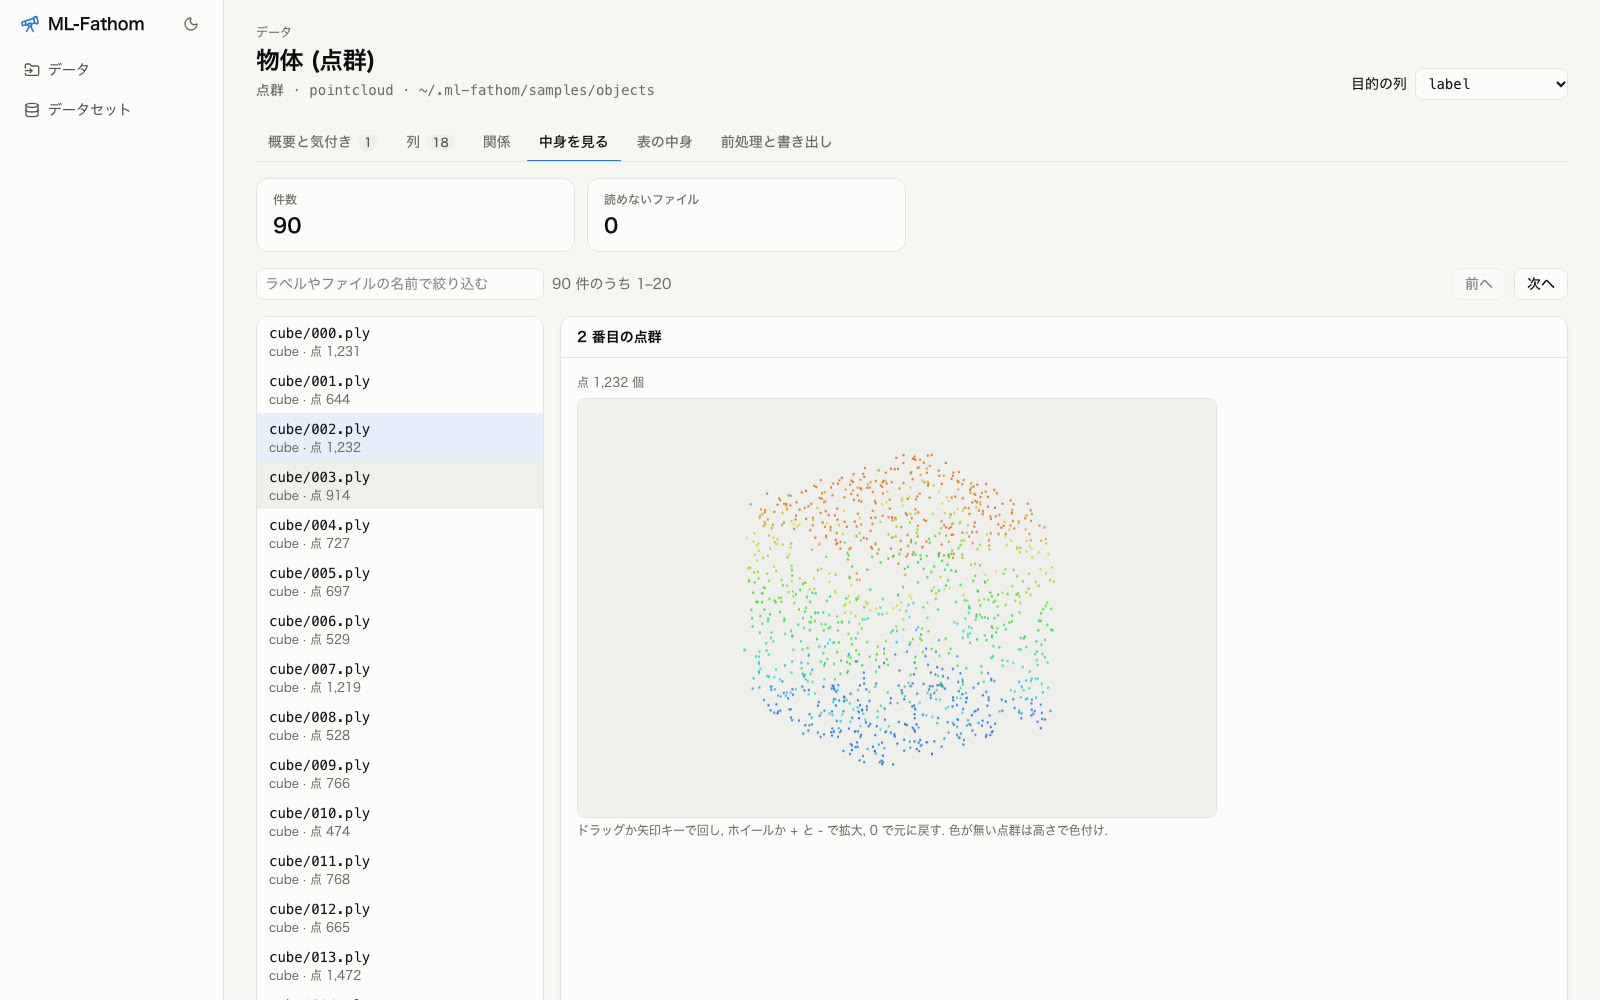
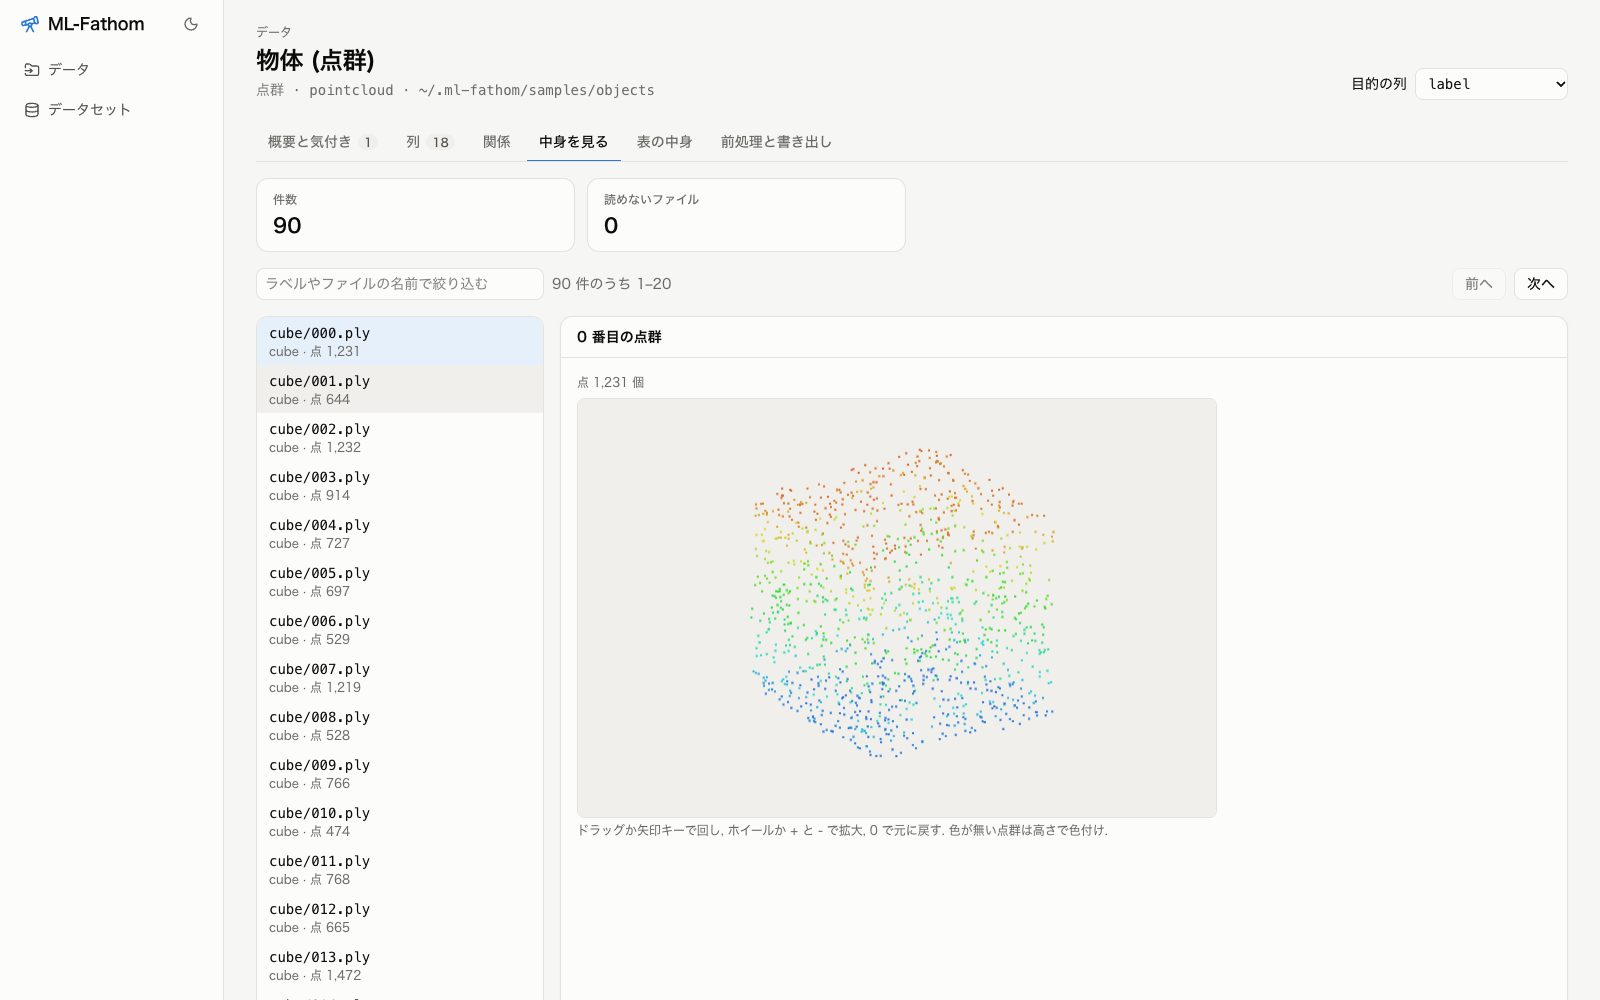
README を画面の図で分かる形にし, 操作ガイドの図を撮り直して文書を今の状態に合わせる

Changed region(s): [[0.4688, 0.434, 0.6562, 0.775], [0.1562, 0.403, 0.2188, 0.465], [0.1562, 0.31, 0.2188, 0.372]]

diff --git a/README.md b/README.md
@@ -2,41 +2,49 @@
 
 機械学習に使うデータを, 画面の上で分析 (EDA) し, 前処理して学習用に書き出すローカルの Web アプリ.
 
-[ML-EDA](https://github.com/victor-von-pooh/ML-EDA) を使い, 表, 時系列, 画像, 文, 点群, 多視点の撮影などのデータを読み込んで, 列の型, 分布, 欠損, 関係, 学習の前に確かめた方がよいこと (気付き) を見られる. 前処理の手順を画面で組み立て, 1 段ずつ前と後を確かめて, [ML-Found](https://github.com/victor-von-pooh/ML-Found) の学習スクリプトがそのまま読み込めるデータセットに書き出す.
+「機械学習を全て GUI 上で行う」流れのうち, データの分析の段階を受け持つ. 読み込み, 分析, 前処理, 書き出しは [ML-EDA](https://github.com/victor-von-pooh/ML-EDA) が行い, 書き出したデータセットは [ML-Found](https://github.com/victor-von-pooh/ML-Found) の学習スクリプトがそのまま読める.
 
-設計の方針は [docs/DESIGN.md](docs/DESIGN.md) を参照.
+![概要と気付き: 行と列の数, 欠損, ID らしい列やリークの疑いなど, 学習の前に確かめた方がよいことの一覧](docs/images/overview.png)
 
-## 必要なもの
+<table>
+  <tr>
+    <td><img src="docs/images/recipe.png" alt="前処理と書き出し: 目的の列と分割, 手順の並び, 手順をかけた後の表と分割ごとの行数"></td>
+    <td><img src="docs/images/relations.png" alt="関係: 目的の列の分布, 目的の列との関連の強さ, 数値の列の相関のヒートマップ"></td>
+  </tr>
+  <tr>
+    <td><img src="docs/images/timeseries.png" alt="時系列: 時刻の間隔と抜け, 系列のグラフ, 自己相関と周期の候補"></td>
+    <td><img src="docs/images/images.png" alt="画像の中身: 件数, 大きさと色の形式のばらつき, 読めないファイルの数と画像の一覧"></td>
+  </tr>
+  <tr>
+    <td><img src="docs/images/pointcloud.png" alt="点群の中身: 1 件ずつの点群を 3D で回して見る"></td>
+    <td><img src="docs/images/pairs.png" alt="ファイルの組の書き出し: 画像と領域の 2 つのディレクトリを選び, load_items で読める形に書き出す"></td>
+  </tr>
+</table>
 
-- [uv](https://docs.astral.sh/uv/) (Python は uv が用意する. 3.10 以上)
-- Node.js 24 以上と [pnpm](https://pnpm.io/) 11 以上 (`corepack enable` で `package.json` の版が入る)
+画面の例は「見本のデータを入れる」で登録する見本 (顧客の解約の表, 電力の使用量の時系列, 図形の画像, 物体の点群). ファイルの組の書き出しは, ML-EDA の合成の見本 (`write_image_masks`) で作った画像と領域.
 
-## 導入と起動
+## できること
+
+- **読み込む**: 表 (csv, tsv, json, jsonl, parquet, xlsx, npy), 時系列, 画像, 文, 点群 (ply, pcd, xyz など), 多視点の撮影 (`transforms.json`) を, 形式を判定した候補から選んで登録する. 元のファイルは書き換えない
+- **分析する**: 列の型, 分布, 欠損, 関係, 時系列の周期と, 学習の前に確かめた方がよいこと (気付き). 画像は並べて, 点群は 3D で回して, 撮影はカメラの配置と深度を見る
+- **前処理を組み立てる**: 気付きと列の型から手順を作り, 1 段ずつ前と後を確かめる. 自動では決めきれないこと (リークの疑いの列を落とすか, 分割の方法など) は選択肢付きで聞く
+- **書き出す**: 1 件 = 1 行のデータセット (ML-EDA の `load_dataset` で読む) と, 画像と領域, 撮影と点群のように入力と正解がファイルの組のデータセット (`load_items` で読む)
+- **問題の設定から始める**: ML-Pathfinder で決めた問題の設定 (`problem.yaml`) から, 目的の列, 分割, 使わない列を決めた状態で始め, ここで変えた選び方を書き戻す
+
+## 使い方
+
+必要なもの: [uv](https://docs.astral.sh/uv/) (Python 3.10 以上は uv が用意する), Node.js 24 以上と [pnpm](https://pnpm.io/) 11 以上 (`corepack enable` で `package.json` の版が入る).
 
 ```bash
 git clone --recursive https://github.com/victor-von-pooh/ML-Fathom.git
 cd ML-Fathom
 make setup   # submodule, Python と Node.js の依存
-make serve   # 画面をビルドして http://127.0.0.1:8767 で起動 (使う間は端末を開いたままにする. Ctrl+C で止める)
+make serve   # 画面をビルドして http://127.0.0.1:8767 で起動 (Ctrl+C で止める)
 ```
 
-起動すると `ML-Fathom を開く: http://127.0.0.1:8767/api/auth?token=...` の行が出るので, その URL をブラウザで開く (トークンは起動ごとに変わる). 毎回同じトークンにする場合は環境変数 `ML_FATHOM_TOKEN` で指定する. ポートは `make serve PORT=8800` のように変えられる.
+端末に出る `ML-Fathom を開く: http://127.0.0.1:8767/api/auth?token=...` の URL をブラウザで開く (トークンは起動ごとに変わる. 環境変数 `ML_FATHOM_TOKEN` で決められる). ポートは `make serve PORT=8800` のように変えられる. 置き場は `~/.ml-fathom/` (環境変数 `ML_FATHOM_HOME` で変えられる).
 
-## 使い方
-
-画面ごとの詳しい手順は [操作ガイド](docs/GUIDE.md) (見本のデータで試せる「やってみる」付き).
-
-1. 試すだけなら「見本のデータを入れる」で, 表, 時系列, 画像, 文, 点群の見本を登録できる. 自分のデータは「データを追加」でファイル (csv, tsv, json, jsonl, parquet, xlsx, npy, txt, ply, pcd, xyz など) かディレクトリ (クラスごとのフォルダに分けた画像, 文, 点群. `transforms.json` を持つ多視点の撮影) を選ぶ. 形式を判定した読み込みの候補から選んで「追加」
-2. データの画面の上の「目的の列」で, 予測したい列を選ぶ (分析に目的の列との関係が加わり, 前処理の分割とタスクに使う)
-3. 「概要と気付き」「列」「関係」「時系列」「中身を見る」「表の中身」でデータの特徴を見る. 画像は並べて, 点群は 3D で回して見られる. 多視点の撮影は, 上から見たカメラの配置と各枚の画像, 深度, 信頼度を見られる (前処理のタブでは書き出さない. 正解の点群との対は下の「ファイルの組を書き出す」で書き出す)
-4. 「前処理と書き出し」で手順を組み立てる. 「学習できる形にする手順を作る」で列の型から手順を作り, 「気付きから手順を足す」で気付きに合う手順を足せる. 手順の番号を押すと, その手順の前と後を見られる. 画像, 文, 点群は「学習用の配列にする手順を作る」で, 大きさや長さや点の数をそろえる手順を作る
-5. 名前を付けて「学習用に書き出す」. 置き場の `datasets/<名前>/` に書き出す
-
-**問題の設定から始める**: ML-Pathfinder で決めた問題の設定 (`problem.yaml` か, それを持つディレクトリ) を「問題の設定から始める」で選ぶと, 問題の設定に入れたデータを登録し, 目的の列, タスク, 分割, 使わない列, 決める時点で分かる過去の値を決めた状態で始まる. 「前処理と書き出し」の先頭の「問題の設定」のカードに, 編集中のレシピと問題の設定の食い違いが出る. 予測の時点で分からない列をレシピで使った場合は, 分かる列にするかレシピで落とすかを選び, 「問題の設定に書き戻す」で問題の設定に戻す
-
-置き場は `~/.ml-fathom/` (環境変数 `ML_FATHOM_HOME` で変えられる). 元のデータのファイルは書き換えない.
-
-### 書き出したデータセットで学習する
+まず「見本のデータを入れる」を押すと, 表, 時系列, 画像, 文, 点群の見本で全ての画面を試せる. 書き出したデータセットは学習のスクリプトで次のように読む.
 
 ```python
 from ml_eda import load_dataset
@@ -44,20 +52,10 @@ from torch.utils.data import DataLoader, TensorDataset
 
 dataset = load_dataset("~/.ml-fathom/datasets/<名前>")
 train_loader = DataLoader(TensorDataset(*dataset.tensors("train")), batch_size=64, shuffle=True)
-valid_loader = DataLoader(TensorDataset(*dataset.tensors("valid")), batch_size=64)
-# 入力の形: dataset.info["splits"]["train"]["shape"][1:], 分類のクラスの数: len(dataset.info["classes"])
 ```
 
-画像と領域, 多視点の撮影と点群のように入力と正解がファイルの組のデータは, 「データセット」の「ファイルの組を書き出す」で書き出し (`dataset.yaml` の版 2), `load_items` で読む.
-
-```python
-from ml_eda import load_items
-
-dataset = load_items("~/.ml-fathom/datasets/<名前>")
-item = dataset.split("train")[0]   # {"id", "split", "group", 項目の名前: 中身}
-```
-
-学習の環境に ML-EDA を入れる方法は ML-EDA の README を参照.
+- [操作ガイド](docs/GUIDE.md): 画面ごとの手順. 見本のデータで試せる「やってみる」付き
+- [設計](docs/DESIGN.md): 置き場, 画面, API, 問題の設定とのつなぎ方
 
 ## 開発
 
@@ -74,7 +72,6 @@ cd frontend && pnpm e2e   # 画面の通しのテスト
 | `frontend/` | 画面 (TypeScript, React, Vite, ECharts) |
 | `ML-EDA/` | submodule |
 | `ML-Quest/` | submodule (問題の設定から始めるため) |
-| `docs/DESIGN.md` | 設計の方針 |
 
 ## ライセンス
 

diff --git a/docs/DESIGN.md b/docs/DESIGN.md
@@ -56,7 +56,7 @@ ML-Fathom の設計の方針をまとめる.
 置き場の `datasets` の下の `dataset.yaml` を持つディレクトリを, `format_version` で分けて読む (ML-EDA の `load_dataset` は版 2 で, `load_items` は版 1 で止まるので, 版を見てから読む方を選ぶ). 一覧の 1 件は `form` で形を表す.
 
 - **版 1** (`form: table`): 種類とタスク, 目的の列, 学習に使う列の数, 分割ごとの行数 (`load_dataset`)
-- **版 2** (`form: items`): 受け持ち (`role`), 正解の種類 (`target.kind`), 項目ごとの種類, 入力か正解か, 単位, 座標の決まり (撮影は深度の測り方 (`depth`. `z` はカメラの前の軸に沿った距離, `ray` は光線に沿った距離) と画素の中心 (`pixel_center`) を別の行に. 欄の無い撮影は前の ML-EDA で書き出したものなので, 書き出し直すと入ると出す), 分割ごとの件数と全ての件数, 正解の出どころ (`target.origin` の種類, 名前, 設定), 正規化をかけたか, 書き出しの注意 (`load_items`). 元の場所 (`source`. ML-EDA はディレクトリの名前だけを書く) は出さない. 出どころが `process` (今ある処理の出力) なら, 「測れるのはその処理との一致で, モデルはその処理を超えられない」と短く添える
+- **版 2** (`form: items`): 受け持ち (`role`), 正解の種類 (`target.kind`), 項目ごとの種類, 入力か正解か, 単位, 座標の決まり (撮影は深度の測り方 (`depth`. `z` はカメラの前の軸に沿った距離, `ray` は光線に沿った距離) と画素の中心 (`pixel_center`) を別の行に. 欄の無い撮影には, 書き出し直すと入ると出す), 分割ごとの件数と全ての件数, 正解の出どころ (`target.origin` の種類, 名前, 設定), 正規化をかけたか, 書き出しの注意 (`load_items`). 元の場所 (`source`. ML-EDA はディレクトリの名前だけを書く) は出さない. 出どころが `process` (今ある処理の出力) なら, 「測れるのはその処理との一致で, モデルはその処理を超えられない」と短く添える
 - **読めないもの** (`form: unreadable`): 知らない版 (版 1 と 2 の他) は「読めない版」として版の番号と理由を出す. 知っている版でも読めなければ, 理由を出す. 一覧から黙って消さない. `dataset.yaml` の無いディレクトリ (書き出し途中の一時ディレクトリなど) はデータセットではないので並べない
 
 ## ファイルの組の書き出し
@@ -97,7 +97,7 @@ ML-Fathom の設計の方針をまとめる.
 
 ## 問題の設定から始める
 
-問題の設定の段階 (ML-Quest と画面の ML-Pathfinder) で決めたことを入れた状態で始め, ここで変えた選び方を問題の設定に書き戻す (利用者が決めた. 段階どうしのつなぎ目の誤りを早く見つけるため, 全体のシステムにまとめる前から作る). データを入れる今の流れはそのまま残す.
+問題の設定の段階 (ML-Quest と画面の ML-Pathfinder) で決めたことを入れた状態で始め, ここで変えた選び方を問題の設定に書き戻す (段階どうしのつなぎ目の誤りを早く見つけるため). 「データを追加」から入れる流れも使える.
 
 - **始める**: データの画面の「問題の設定から始める」で `problem.yaml` (か, それを持つディレクトリ) を選ぶ. ML-Quest の `recipe_from` で, データの場所と読み方 (問題の設定に入れたデータ. 写しが消えていれば元の場所) と, レシピの雛形 (目的の列, タスク, 使わない列を落とす手順, 時系列なら決める時点で分かる期からの系列ごとの過去の値, 分割と, あれば相手をまとめるグループの列) を受け取り, データを登録してレシピを保存する. 問題の設定の場所は登録したデータに持つ (`problem`). 問題の設定を渡せない (直すところがある) か, データを入れていなければ, 理由を出して登録しない
 - **食い違いを見る**: 問題の設定から始めたデータでは, 前処理のタブの先頭に「問題の設定」のカードを出す. 編集中のレシピを ML-Quest の `apply_recipe` で試しに書き戻し (保存はしない), 変わる点 (目的の列, タスク), 食い違い (使ってはいけない列を使う (誤り), 決める時点で分からない期の過去の値, 相手をまとめる列とレシピのグループの列の違い, 時系列なのに時刻の順でない分割 (注意)), 選ぶ問い (予測の時点で分からない列をレシピで使っている: 分かる列に移すか, レシピで落とすか) を出す

diff --git a/docs/GUIDE.md b/docs/GUIDE.md
@@ -194,19 +194,21 @@ make serve
 ### やってみる 8: 過去の値の列を作る (3 分)
 
 - [ ] 「前処理と書き出し」を開き, 「タスク」を「予測 (時系列)」, 「分割」を「時刻の順 (最後を検証用に)」にする (「決めてほしいこと」の「時刻の順にする」を押しても同じ)
-- [ ] 「学習できる形にする手順を作る」を押す. 自己相関で見つけた周期 24 から, 3 つの手順ができる
+- [ ] 「学習できる形にする手順を作る」を押す. 自己相関で見つけた周期 24 から, 4 つの手順ができる
 
 | 手順 | 中身 |
 | --- | --- |
 | 1 `lag` | 数値の列 (目的の列も) の 1 つ前と 24 個前の値, 24 個の移動平均の列を足す (`usage_kwh_lag1`, `usage_kwh_lag24`, `usage_kwh_mean24` など). どれも過去の値だけを使う |
 | 2 `drop_missing` | 過去の値が足りない始めの行を落とす |
-| 3 `standardize` | 標準化する |
+| 3 `datetime_parts` | 時刻の列 `time` から, 時と曜日の列を足す (1 日より細かい間隔なので) |
+| 4 `standardize` | 標準化する |
 
-- [ ] 右の「学習用のデータ」が「分割: train 1,675 行, valid 419 行」「学習に使う列: 7」になることを見る. 検証用は学習用より後の時刻の行
+- [ ] 右の「学習用のデータ」が「分割: train 1,675 行, valid 419 行」「学習に使う列: 9」になることを見る. 検証用は学習用より後の時刻の行
+- [ ] 左の先頭の「決めてほしいこと」に「時刻の抜けがあり, 過去の値の列は行でずらします」が出る. 抜けを挟むと「24 個前」が 24 時間前にならないため. 「このまま (行でずらす)」「日付でずらす (1 つ = 1 時間)」「過去の値の列を外す」から選ぶ. どれが良いかはデータによるので, 勧めは「このまま」. 迷ったら書き出して学習で比べる
 
 ![時系列の手順](images/guide/ts_recipe.jpg)
 
-**見どころ**: 目的の列 `usage_kwh` そのものは学習に使う列に入らない (その時刻の答えなので). 時刻の抜けの前後では, 「1 つ前」が 1 時間前とは限らない. 抜けが多いデータでは, 抜けを埋めるか, 抜けの前後を分けて扱う.
+**見どころ**: 目的の列 `usage_kwh` そのものは学習に使う列に入らない (その時刻の答えなので). 「日付でずらす」にすると, 過去の値は暦どおりの 1 時間前と 24 時間前 (その時刻が抜けていれば, 前で最も近い時刻) になる.
 
 ## 7. 画像, 文, 点群を扱う
 
@@ -254,8 +256,10 @@ from torch.utils.data import DataLoader, TensorDataset
 dataset = load_dataset("~/.ml-fathom/datasets/churn")
 train_loader = DataLoader(TensorDataset(*dataset.tensors("train")), batch_size=64, shuffle=True)
 valid_loader = DataLoader(TensorDataset(*dataset.tensors("valid")), batch_size=64)
-# 入力の形: dataset.info["splits"]["train"]["shape"][1:], 分類のクラスの数: len(dataset.info["classes"])
+# 入力の次元: len(dataset.features), クラスの数: len(dataset.info["classes"])
 ```
+
+画像, 文, 点群のデータセットでは, 最後の行が `# 入力の形: dataset.info["splits"]["train"]["shape"][1:]` になる. 書き出した後の画面には, モデルを組むときの数 (1 件の入力の形と型, 出力の幅) も出る.
 
 | 使うもの | 中身 |
 | --- | --- |
